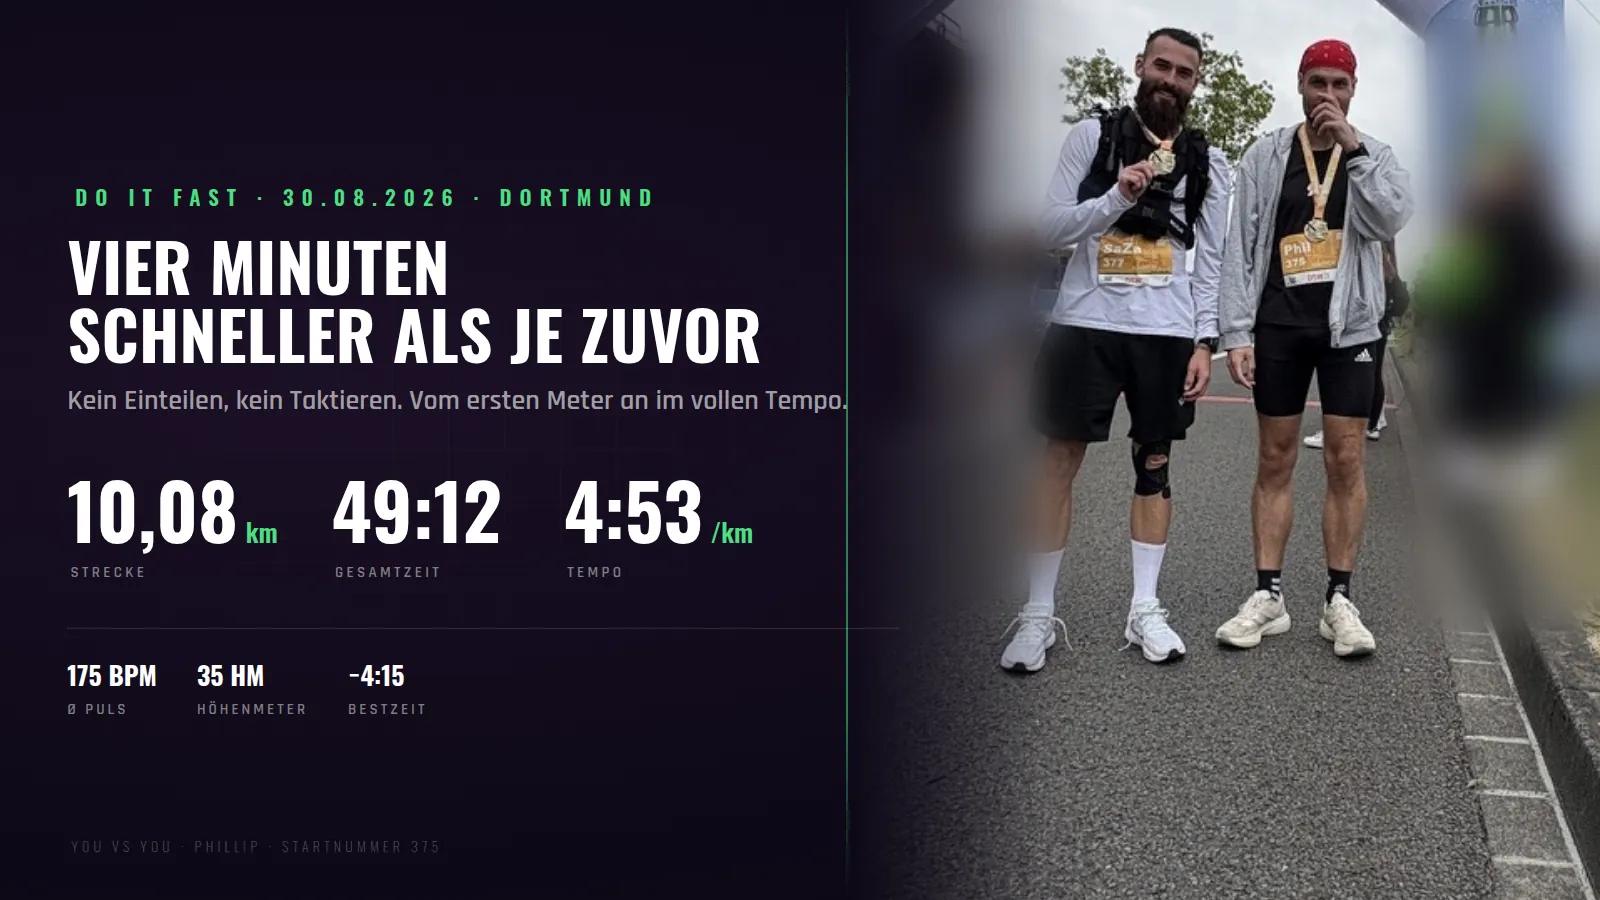
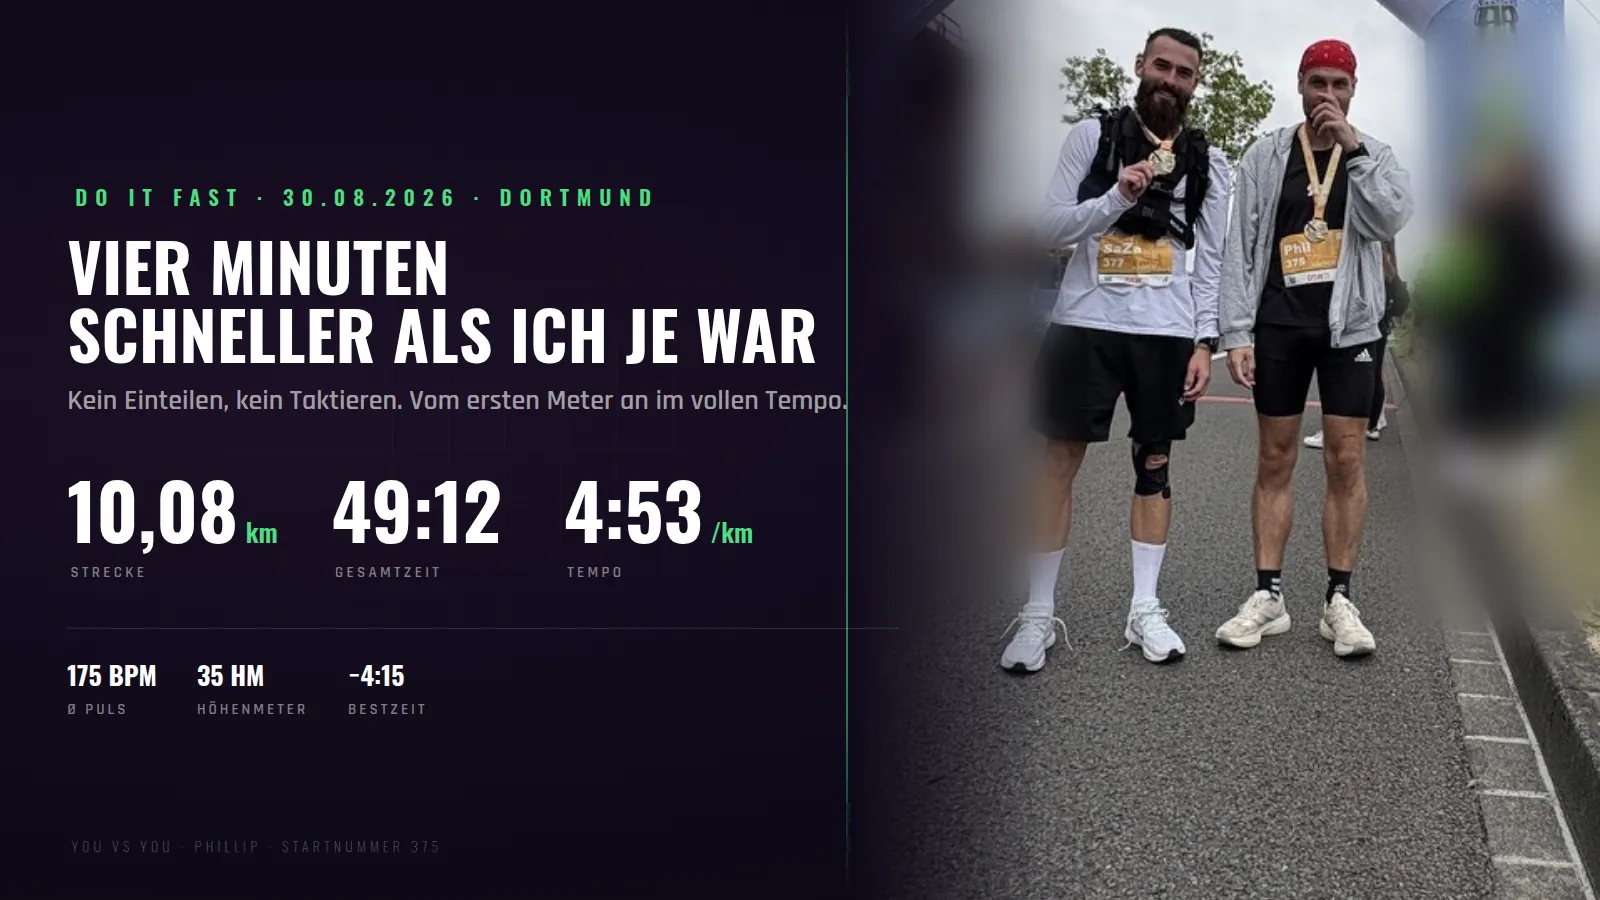
Add files via upload

Changed region(s): [[0.3125, 0.3422, 0.5312, 0.4044]]

diff --git a/index.html b/index.html
@@ -2021,13 +2021,13 @@ a.news-item:hover, a.news-item:focus-visible{ border-left-color:var(--signal) }
         <img class="tr-medium" src="doitfast-sascha.jpg" alt="Karte: Sascha nach dem Zieleinlauf, daneben die Zahlen des Laufs" loading="lazy">
         <div class="tr-kinnen">
           <div class="tr-kzeile"><span class="tr-wer">Sascha</span><span class="tr-datum">30.8.2026 &middot; 10:00 Uhr</span></div>
-          <h3>Zehn Kilo, zehn Kilometer, f&uuml;nf Minuten zu langsam</h3>
+          <h3>Mein Ziel war die Stunde &mdash; sie ist nicht gefallen</h3>
           <div class="tr-kern"><span><b>10,27</b>km</span><span><b>1:04:58</b>bewegt</span><span><b>6:19</b>pace</span></div>
           <details class="tr-mehr">
             <summary>Zahlen und Verlauf</summary>
             <div class="tr-minnen">
               <div class="tr-bloecke"><div class="tr-block"><div class="tr-blab">Strecke und Zeit</div><dl><div><dt>Strecke</dt><dd>10,27 km</dd></div><div><dt>Bewegungszeit</dt><dd>1:04:58</dd></div><div><dt>Wettkampf</dt><dd>Do It Fast, 10 km</dd></div><div><dt>Rundkurs</dt><dd>4 &times; 2,5 km</dd></div></dl></div><div class="tr-block"><div class="tr-blab">Tempo</div><dl><div><dt>Pace</dt><dd>6:19 /km</dd></div><div><dt>Bestzeit &uuml;ber 10 km</dt><dd>neue Bestzeit, 3:38 schneller</dd></div><div><dt>Startnummer</dt><dd>377</dd></div></dl></div><div class="tr-block"><div class="tr-blab">K&ouml;rper und Profil</div><dl><div><dt>&Oslash; Puls</dt><dd>188 bpm</dd></div><div><dt>Kalorien</dt><dd>823 kcal</dd></div><div><dt>H&ouml;henmeter</dt><dd>71 hm</dd></div></dl></div></div>
-              <p>Das Ziel war unter einer Stunde, mit zehn Kilo auf dem R&uuml;cken. Es ist nicht aufgegangen. Was aufging: die schnellsten zehn Kilometer seiner bisherigen Laufzeit, drei Minuten achtunddrei&szlig;ig unter der alten Marke &mdash; und die alte Marke wurde ohne Weste gelaufen. Ein Puls von durchschnittlich 188 sagt, wie viel davon Wille war.</p>
+              <p>Zehn Kilo auf dem R&uuml;cken und eine klare Ansage an mich selbst: unter einer Stunde. Es ist nicht aufgegangen, f&uuml;nf Minuten haben gefehlt. Was aufgegangen ist: die schnellsten zehn Kilometer, die ich je gelaufen bin &mdash; drei Minuten achtunddrei&szlig;ig unter meiner alten Marke, und die alte bin ich ohne Weste gelaufen. Mein Puls lag im Schnitt bei 188. Das sagt, wie viel davon Wille war.</p>
               <p class="tr-quelle">Zahlen von der Uhr. Das amtliche Ergebnis der Zeitmessung steht noch aus.</p>
             </div>
           </details>
@@ -2037,13 +2037,13 @@ a.news-item:hover, a.news-item:focus-visible{ border-left-color:var(--signal) }
         <img class="tr-medium" src="doitfast-phillip.jpg" alt="Karte: Sascha und Phillip am Zielbogen, daneben Phillips Zahlen" loading="lazy">
         <div class="tr-kinnen">
           <div class="tr-kzeile"><span class="tr-wer">Phillip</span><span class="tr-datum">30.8.2026 &middot; 10:00 Uhr</span></div>
-          <h3>Vier Minuten schneller als je zuvor</h3>
+          <h3>Vier Minuten schneller als ich je war</h3>
           <div class="tr-kern"><span><b>10,08</b>km</span><span><b>49:12</b>gesamt</span><span><b>4:53</b>pace</span></div>
           <details class="tr-mehr">
             <summary>Zahlen und Verlauf</summary>
             <div class="tr-minnen">
               <div class="tr-bloecke"><div class="tr-block"><div class="tr-blab">Strecke und Zeit</div><dl><div><dt>Strecke</dt><dd>10,08 km</dd></div><div><dt>Verstrichene Zeit</dt><dd>49:12</dd></div><div><dt>Wettkampf</dt><dd>Do It Fast, 10 km</dd></div><div><dt>Rundkurs</dt><dd>4 &times; 2,5 km</dd></div></dl></div><div class="tr-block"><div class="tr-blab">Tempo</div><dl><div><dt>Pace</dt><dd>4:53 /km</dd></div><div><dt>Bestzeit &uuml;ber 10 km</dt><dd>neue Bestzeit, 4:15 schneller</dd></div><div><dt>Startnummer</dt><dd>375</dd></div></dl></div><div class="tr-block"><div class="tr-blab">K&ouml;rper und Profil</div><dl><div><dt>&Oslash; Puls</dt><dd>175 bpm</dd></div><div><dt>Kalorien</dt><dd>750 kcal</dd></div><div><dt>H&ouml;henmeter</dt><dd>35 hm</dd></div></dl></div></div>
-              <p>Kein Einteilen, kein Taktieren. Vom ersten Meter an in dem Tempo, das er sich zugetraut hat &mdash; und am Ende vier Minuten f&uuml;nfzehn unter allem, was er &uuml;ber diese Distanz je gelaufen ist.</p>
+              <p>Kein Einteilen, kein Taktieren. Ich bin vom ersten Meter an in dem Tempo gelaufen, das ich mir zugetraut habe &mdash; und am Ende standen vier Minuten f&uuml;nfzehn unter allem, was ich &uuml;ber diese Distanz je gelaufen bin.</p>
               <p class="tr-quelle">Zahlen von der Uhr. Das amtliche Ergebnis der Zeitmessung steht noch aus.</p>
             </div>
           </details>
@@ -2429,7 +2429,7 @@ const CONFIG = {
       {
         datum: "2026-09-04",
         titel: "Do It Fast — gelaufen, und die Uhr sagt zwei Geschichten",
-        text:  "Vier Runden à 2,5 Kilometer auf dem alten Hüttengelände in Dortmund Phoenix-West. Startnummer 375 und 377, Zielbogen, zwei Medaillen — und zwei völlig verschiedene Rennen. Phillip lief 10,08 Kilometer in 49:12, ein Schnitt von 4:53 pro Kilometer und vier Minuten fünfzehn schneller als je zuvor über diese Distanz. Sascha lief mit zehn Kilo auf dem Rücken. Das Ziel war klar: unter einer Stunde. Es ist nicht aufgegangen — 1:04:58 auf der Uhr, 6:19 pro Kilometer, ein Puls von durchschnittlich 188. Fünf Minuten gefehlt. Und trotzdem steht dort etwas, das vorher nicht dastand: die schnellsten zehn Kilometer seines Lebens, drei Minuten achtunddreißig unter der alten Bestzeit — mit einer Weste, die es vorher nicht gab. Die Stunde ist ein Ziel, kein Urteil. Sie fällt beim nächsten Mal.",
+        text:  "Vier Runden à 2,5 Kilometer auf dem alten Hüttengelände in Dortmund Phoenix-West. Wir sind zu zweit gestartet, Startnummer 375 und 377, und haben zwei völlig verschiedene Rennen gelaufen. Ich bin mit zehn Kilo auf dem Rücken losgelaufen, mein Ziel war klar: unter einer Stunde. Es ist nicht aufgegangen — 1:04:58 auf der Uhr, 6:19 pro Kilometer, ein Puls von durchschnittlich 188. Fünf Minuten gefehlt. Und trotzdem steht da etwas, das vorher nicht dastand: die schnellsten zehn Kilometer meines Lebens, drei Minuten achtunddreißig unter meiner alten Bestzeit — und die alte bin ich ohne Weste gelaufen. Phillip ist gelaufen, als hätte er etwas gutzumachen: 10,08 Kilometer in 49:12, vier Minuten fünfzehn schneller als je zuvor über diese Distanz. Die Stunde ist ein Ziel, kein Urteil. Sie fällt beim nächsten Mal.",
         ziel:  "#training",
         zielText: "Bilder und Zahlen"
       },
